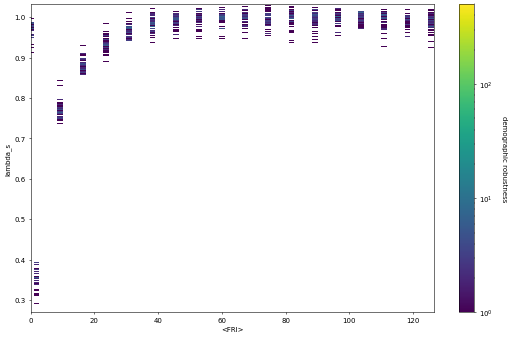
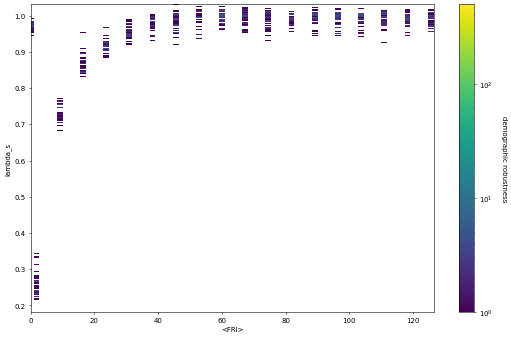
Add extinction threshold
- To make lambda calculation make more sense
- Lower extinction thresholds make lambda values lower, especially at low tau.
- Also generate updated P_s(tau) curve again just to compare

diff --git a/sensitivity/project.py b/sensitivity/project.py
@@ -164,98 +164,37 @@ def compute_lambda_s(job):
         census_t = np.array(job.data["census_t"])
         burn_in_end_i = 0
         for b in b_vec:
-            ### Skip if lambda_s already computed at this b value
-            ##if str(b) in list(job.data['lambda_s'].keys()): continue
-            #N_tot = np.array(job.data[f"N_tot/{b}"])
-            #nonzero_counts = np.count_nonzero(N_tot, axis=1)
-            #extirpated_replicas = np.nonzero(nonzero_counts < job.sp.t_final)[0]
-            #all_growthrates = np.zeros(N_tot.shape)
-
-            ## First handle replicas where extirpations occur
-            #'''Could probably speed up with masking'''
-            #lam_s_extir = []
-            #for rep_i in extirpated_replicas:
-            #    N_t = N_tot[rep_i]
-            #    zero_i_min = nonzero_counts[rep_i]
-            #    final_i = zero_i_min
-
-            #    t = census_t[burn_in_end_i:final_i]
-            #    if len(t) == 1:
-            #        print('hey')
-            #    N_slice = N_t[burn_in_end_i:final_i]
-            #    growthrates = N_slice[1:] / np.roll(N_slice, 1)[1:]
-            #    lam_s_replica = np.product(growthrates) ** (1/len(t))
-            #    lam_s_extir.append(lam_s_replica)
-            #if np.any(lam_s_extir == 1):
-            #    print('that shouldnt happen')
-
-            ## Now handle cases with no extirpation
-            #N_tot = np.delete(N_tot, extirpated_replicas, axis=0)
-            #start_i = burn_in_end_i
-            #final_i = N_tot.shape[1]
-            #N_slice = N_tot[:,start_i:final_i]
-            ##log_ratios = np.log(N_slice[:,1:] / np.roll(N_slice, 1, 1)[:,1:])
-            ##lam_s_vec = np.sum(log_ratios, axis=1) / N_slice.shape[1]
-            #growthrates = N_slice[:,1:] / np.roll(N_slice, 1, 1)[:,1:]
-            ##lam_products = np.product(, axis=1)
-            #lam_s_vec = np.product(growthrates, axis=1) ** (1/(N_slice.shape[1]-1)) 
-            #if np.any(lam_s_vec == 1):
-            #    print('that also shouldnt happen')
-
-            ## Compute final lambda value
-            #lam_s_all = np.concatenate((lam_s_vec, lam_s_extir))
-
             N_tot = np.array(job.data[f"N_tot/{b}"])
-            nonzero_counts = np.count_nonzero(N_tot, axis=1)  # Count nonzero timesteps
-            extirpated_replicas = np.nonzero(nonzero_counts < job.sp.t_final)[0]  # Find extirpated replicas
-
-            # Create a mask where N_tot > 0 (avoiding inf values)
-            valid_mask = N_tot > 0
-
             # Indices for slicing
             start_i = burn_in_end_i  # Start after burn-in
             final_i = N_tot.shape[1]  # Last valid timestep
+            N_slice = N_tot[:, start_i:final_i]  # Slice N_tot by all post burn in timesteps
 
-            # Apply mask and slice
-            masked_N_tot = np.where(valid_mask, N_tot, np.nan)  # Replace zeros with NaN (ignored in np.nanprod)
-            N_slice = masked_N_tot[:, start_i:final_i]  # Slice N_tot by all post burn in timesteps
-
-            ## Compute number of valid timesteps for each simulation
-            #valid_timesteps = np.sum(valid_mask[:, start_i:final_i], axis=1) - 1  # Subtract 1 to avoid zero exponent
-
-            ## Compute per-replica growth rates (ignore NaNs)
-            #growthrates = N_slice[:, 1:] / np.roll(N_slice, 1, axis=1)[:, 1:]
-
-            ## Avoid zero exponent by setting invalid cases to NaN
-            #valid_exponent_mask = valid_timesteps > 0
-            #lam_s_all = np.full(N_tot.shape[0], np.nan)  # Default to NaN
-            #lam_s_all[valid_exponent_mask] = np.nanprod(growthrates[valid_exponent_mask], axis=1) ** (1 / valid_timesteps[valid_exponent_mask])
+            # Mask where N_slice > 0 (avoiding inf values)
+            valid_mask = N_slice > 0
+            masked_N_slice = np.where(valid_mask, N_slice, np.nan)  # Replace zeros with NaN (ignored in np.nanprod)
 
             # Just use the first and final timesteps
-            valid_timesteps = np.sum(valid_mask[:, start_i:final_i], axis=1) - 1
+            valid_timesteps = np.sum(valid_mask, axis=1) - 1
             final_N = np.take_along_axis(N_slice, valid_timesteps[..., None], axis=1)[:, 0]
+
+            # Add extinction threshold
+            eps = 1
+            ext_mask = valid_timesteps < (N_slice.shape[1] - 1)
+            valid_timesteps[ext_mask] = valid_timesteps[ext_mask] + 1
+            final_N[ext_mask] = eps 
+
+            # Compute lambda
             growthrates = final_N / N_slice[:, 0]
             valid_exponent_mask = valid_timesteps > 0
             lam_s_all = np.full(N_tot.shape[0], np.nan)  # Default to NaN
             lam_s_all[valid_exponent_mask] = growthrates[valid_exponent_mask] ** (1 / valid_timesteps[valid_exponent_mask]) 
+            job.data[f'lambda_s/{b}'] = np.nanmean(lam_s_all) 
 
-            #if np.any(np.sum(valid_mask[:, start_i:final_i], axis=1) == 1):
-            #    print('thats not good')
             if np.any(np.isnan(lam_s_all)):
                 print('theres nans')
             if np.any(lam_s_all == 1):
                 print(f'theres exact 1s for b={b}')
-                #print(valid_timesteps)
-
-            if len(lam_s_all) != 0:
-                job.data[f'lambda_s/{b}'] = np.nanmean(lam_s_all) 
-            else:
-                print('double check this')
-                #N_tot_mean = np.array(job.data[f"N_tot_mean/{b}"])
-                lam_s = np.exp(-np.log(job.sp.Aeff*job.sp.params.K_adult) / len(t))
-                job.data[f'lambda_s/{b}'] = lam_s
-
-        #import sys; sys.exit()
 
     job.doc['lambda_s_computed'] = True
 
@@ -386,11 +325,12 @@ class Phase:
                 tau_filt = (all_tau == tau)
                 metric_slice = self.metric_data["all_metric"][tau_filt]
                 metric_expect_vec[tau_i] = np.mean(metric_slice)
-            if self.metric == 'P_s':
-                t = self.tau_vec[2:-2:1] 
-                k = 3
-                t = np.r_[(0,)*(k+1), t, (self.tau_vec[-1],)*(k+1)]
-            else:
+            #if self.metric == 'P_s':
+            #    t = self.tau_vec[2:-2:1] 
+            #    k = 3
+            #    t = np.r_[(0,)*(k+1), t, (self.tau_vec[-1],)*(k+1)]
+            #else:
+            if True:
                 t = self.tau_vec[2:-2:2] 
                 k = 3
                 t = np.r_[(self.tau_vec[1],)*(k+1), t, (self.tau_vec[-1],)*(k+1)]
